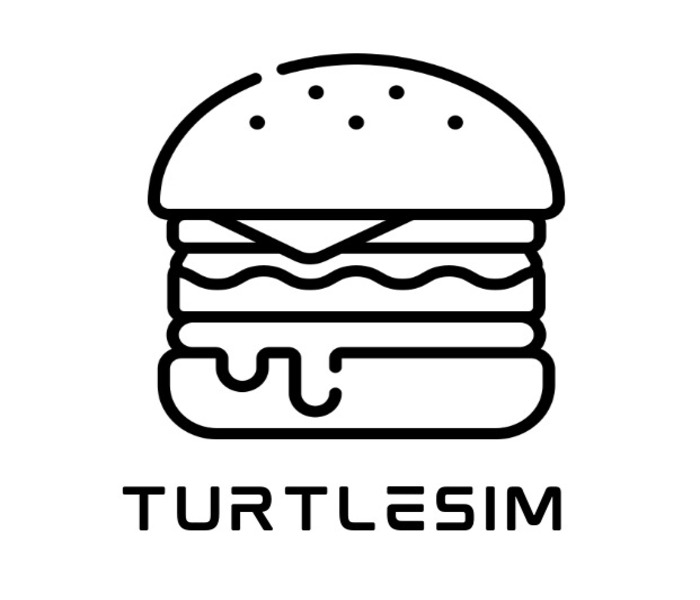
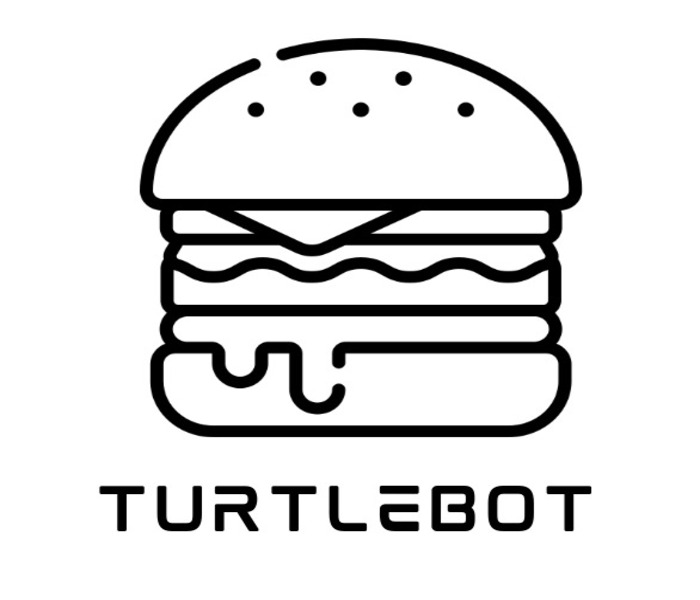
projetos

Changed region(s): [[0.18, 0.06, 0.84, 0.75], [0.12, 0.81, 0.84, 0.9]]

diff --git a/project_petieee.html b/project_petieee.html
@@ -80,10 +80,10 @@
             <div class="container">
 
                 <div class="d-flex justify-content-between align-items-center">
-                    <h2>PROJECT BAYIEEEMAX</h2>
+                    <h2>PROJECT PETIEEE</h2>
                     <ol>
                         <li><a href="index.html">Home</a></li>
-                        <li>Projects Bayieeemax</li>
+                        <li>Project Petieee</li>
                     </ol>
                 </div>
 
@@ -98,7 +98,7 @@
                 <div class="portfolio-details-container">
 
                     <div class="owl-carousel portfolio-details-carousel">
-                        <img src="assets/img/Baymax.jpg" class="img-fluid" alt="">
+                        <img src="assets/img/petieee.jpeg" class="img-fluid" alt="">
 
                     </div>
 
@@ -106,21 +106,20 @@
                         <h3>Project information</h3>
                         <ul>
                             <li><strong>Category</strong>: Robot</li>
-                            <li><strong>Function</strong>: Autonomous robot capable of assisting health workers.</li>
-                            <li><strong>Project date</strong>: 2021- 2024</li>
-                            <li><strong>Project URL</strong>: <a href="https://ieeecimatec.github.io/project-bayieeemax/">https://ieeecimatec.github.io/project-bayieeemax/</a></li>
+                            <li><strong>Function</strong>: Robot to help seniors.</li>
+                            <li><strong>Project date</strong>: 2021- 2022</li>
+                            <li><strong>Project URL</strong>: <a href="https://ieeecimatec.github.io/project-petieee/">https://ieeecimatec.github.io/project-petieee/</a></li>
                         </ul>
                     </div>
 
                 </div>
 
                 <div class="portfolio-description">
-                    <h2>PROJECT BAYIEEEMAX</h2>
+                    <h2>PROJECT PETIEEE</h2>
                     <p>
-                        The project consists of the construction of an autonomous robot capable of assisting health agents in the screening process by measuring parameters of the patient's health status, such as blood pressure, oxygenation and temperature and recording them
-                        in the respective patient files. The robot will display questions on an LCD screen and will also issue them through a loudspeaker and receive the patient's answers through voice commands. During the execution of the project, a
-                        model will be built in a 3D modeling software for the robot's body for later 3D printing. In addition, a printed circuit board will be developed responsible for interconnecting the sensors, actuators and controller, as well as
-                        rectifying the input voltage in order to make it available for charging the batteries. Finally, the robot's operating logic will be implemented through the ROS (Robot Operating System) framework.
+                        PetIEEE is a project of an auxiliary robot for the elderly, especially when it comes to their routine, having the functions of checking the elderly person via voice commands and reminding them to perform important day-to-day activities such as brushing
+                        their teeth, taking medicine, or even bathing time with the use of alarms. The robot has a connection with a telegram bot that will be its interface for configuring the checking function and its alarms, being important to configure
+                        the robot before use. In addition, PetIEEE also has a graphic display that will show the “emotions” of the robot, thus making it a more welcoming device for the elderly.
                     </p>
                 </div>
 

diff --git a/index.html b/index.html
@@ -435,6 +435,16 @@
 
                     <div class="col-lg-4 col-md-6 portfolio-item filter-RASC">
                         <div class="portfolio-wrap">
+                            <img src="assets/img/portfolio/turtlebot.jpeg" class="img-fluid" alt="">
+                            <div class="portfolio-links">
+                                <a href="assets/img/portfolio/turtlebot.jpeg" data-gall="portfolioGallery" class="venobox" title="RASC 3"><i class="bx bx-plus"></i></a>
+                                <a href="project_turtlebot.html" title="More Details"><i class="bx bx-link"></i></a>
+                            </div>
+                        </div>
+                    </div>
+
+                    <div class="col-lg-4 col-md-6 portfolio-item filter-RASC">
+                        <div class="portfolio-wrap">
                             <img src="assets/img/portfolio/turtlesim.png" class="img-fluid" alt="">
                             <div class="portfolio-links">
                                 <a href="assets/img/portfolio/turtlesim.png" data-gall="portfolioGallery" class="venobox" title="RASC 1"><i class="bx bx-plus"></i></a>
@@ -459,16 +469,6 @@
                             <div class="portfolio-links">
                                 <a href="assets/img/portfolio/webots.jpg" data-gall="portfolioGallery" class="venobox" title="RASC 3"><i class="bx bx-plus"></i></a>
                                 <a href="project_webots.html" title="More Details"><i class="bx bx-link"></i></a>
-                            </div>
-                        </div>
-                    </div>
-
-                    <div class="col-lg-4 col-md-6 portfolio-item filter-RASC">
-                        <div class="portfolio-wrap">
-                            <img src="assets/img/portfolio/turtlebot.jpeg" class="img-fluid" alt="">
-                            <div class="portfolio-links">
-                                <a href="assets/img/portfolio/turtlebot.jpeg" data-gall="portfolioGallery" class="venobox" title="RASC 3"><i class="bx bx-plus"></i></a>
-                                <a href="project_turtlebot.html" title="More Details"><i class="bx bx-link"></i></a>
                             </div>
                         </div>
                     </div>

diff --git a/project_turtlesim.html b/project_turtlesim.html
@@ -80,10 +80,10 @@
             <div class="container">
 
                 <div class="d-flex justify-content-between align-items-center">
-                    <h2>PROJECT BAYIEEEMAX</h2>
+                    <h2>PROJECT TURTLESIM</h2>
                     <ol>
                         <li><a href="index.html">Home</a></li>
-                        <li>Projects Bayieeemax</li>
+                        <li>Project Turtlesim</li>
                     </ol>
                 </div>
 

diff --git a/project_baymax.html b/project_baymax.html
@@ -83,7 +83,7 @@
                     <h2>PROJECT BAYIEEEMAX</h2>
                     <ol>
                         <li><a href="index.html">Home</a></li>
-                        <li>Projects Bayieeemax</li>
+                        <li>Project Bayieeemax</li>
                     </ol>
                 </div>
 
